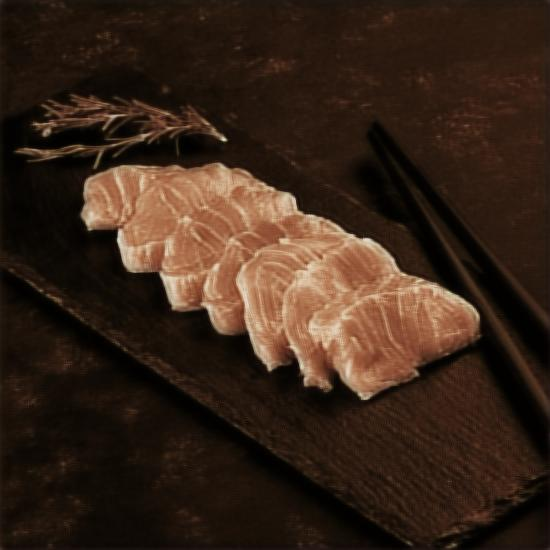
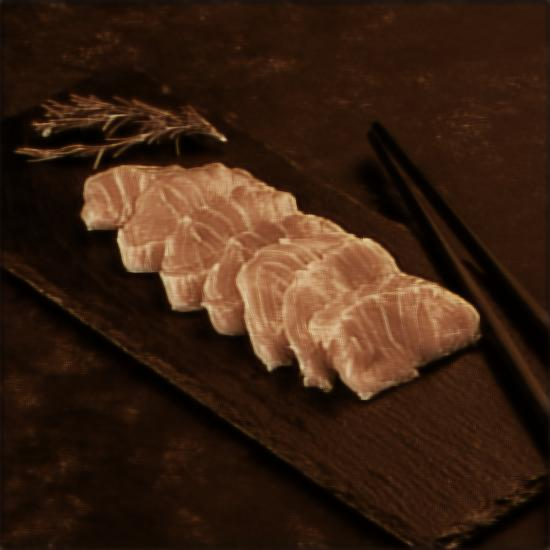
Add instructions to save pre-trained model.

diff --git a/colorize_train.py b/colorize_train.py
@@ -6,7 +6,7 @@ import torchvision.transforms as transforms
 
 def train(train_loader, device, model, criterion, optimizer):
     # We pass entire dataset to the model x10 times
-    EPOCHS = 10
+    EPOCHS = 10  # usually we train we 30
     # Training loop
     for epoch in range(EPOCHS):
         for i, (image, _) in enumerate(train_loader):

diff --git a/colorize.py b/colorize.py
@@ -52,3 +52,6 @@ if __name__ == '__main__':
 
     # random image from the internet
     visualize_random(img_in, img_out, model, device)
+
+    # save model (optional) uncomment to save
+    # torch.save(model.state_dict(), 'model.pth')

diff --git a/README.md b/README.md
@@ -56,3 +56,7 @@ rm pizza_steak_sushi.zip
 ```bash
 python colorize.py
 ```
+
+# Result
+
+![colorized_2](https://github.com/user-attachments/assets/2c9ff2bc-361c-4ef8-b789-3d0c945c16d7)
